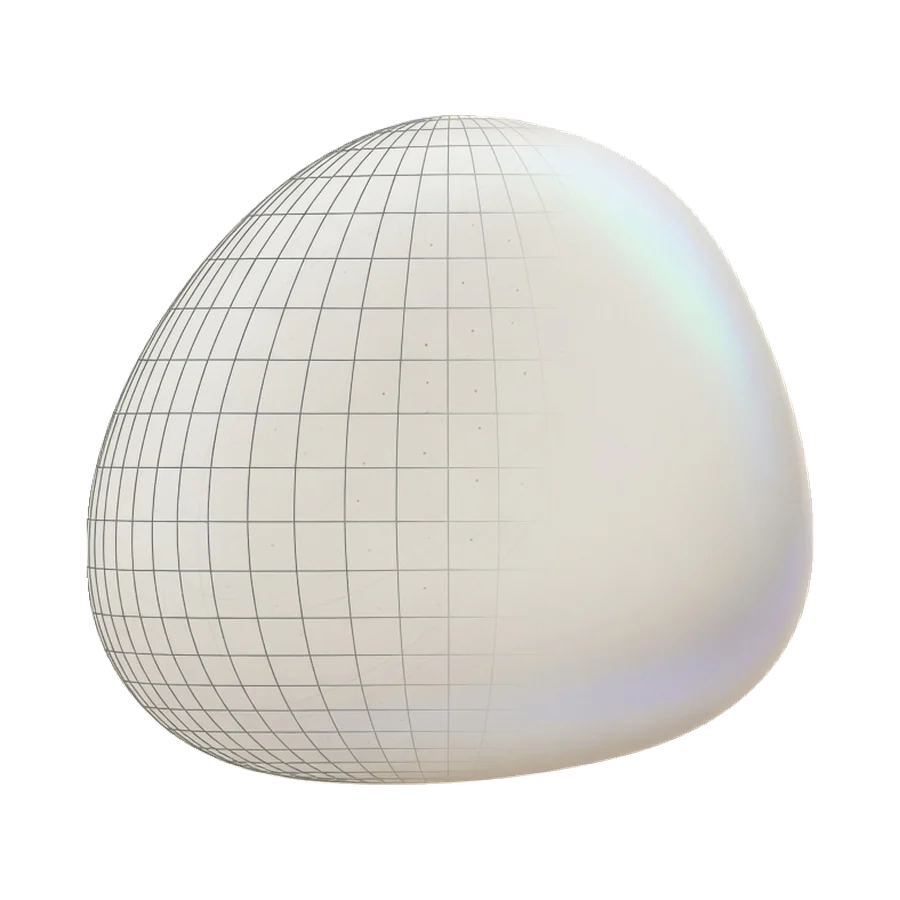
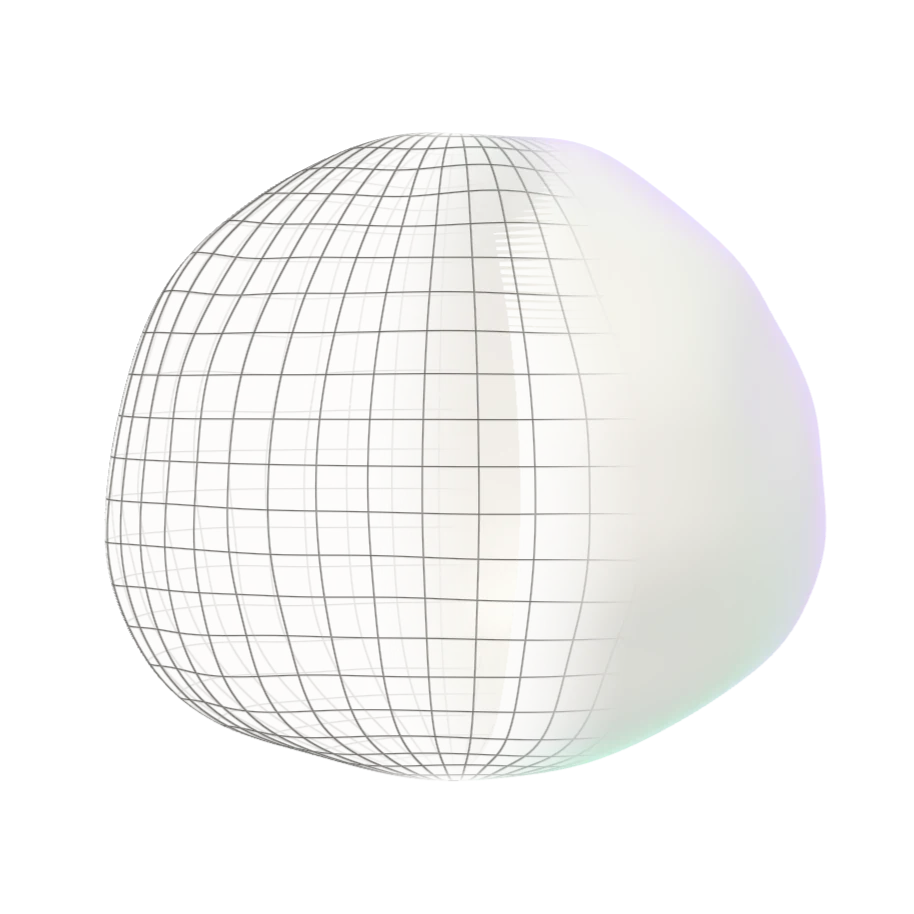
Fix reload ghosting and scroll jank
- Hero poster is now a capture of the live 3D object, so the
  poster-to-canvas swap on load is invisible (no more after-image)
- Carousel depth uses a fading overlay instead of per-frame
  blur()/brightness() filters; info text drops its blur transition
- Carousel screenshots are fetched and decoded during idle time
- three.js is fetched and parsed during the loader, not after it
- Loader progress line fades out before the curtain lifts
- Mobile: payoff line clears before the object drifts across it

diff --git a/src/components/motion/ProjectCarousel3D.tsx b/src/components/motion/ProjectCarousel3D.tsx
@@ -56,11 +56,9 @@ function CarouselCard({ project, index, position, isActive, reduce, onSelect, on
   const opacity = useTransform(d, (v) => 1 - clamp(Math.abs(v) - 1.3, 0, 1));
   const zIndex = useTransform(d, (v) => 100 - Math.round(Math.abs(v) * 10));
   const pointerEvents = useTransform(d, (v) => (Math.abs(v) > 2 ? "none" : "auto"));
-  const filter = useTransform(d, (v) => {
-    if (reduce) return "none";
-    const depth = Math.min(Math.abs(v), 2);
-    return `blur(${depth * 2.5}px) brightness(${1 - depth * 0.05})`;
-  });
+  // Depth "fog": an overlay fading in on cards further back. Opacity composites cheaply —
+  // an animated blur()/brightness() filter repainted every card on every scroll frame.
+  const fog = useTransform(d, (v) => (reduce ? 0 : Math.min(Math.abs(v), 2) * 0.22));
   // Inner parallax: the screenshot slides against the card's own motion.
   const shift = useTransform(d, (v) => `${clamp(v, -2, 2) * -5}%`);
   const shadowOpacity = useTransform(d, (v) => 0.5 - Math.min(Math.abs(v), 1.5) * 0.25);
@@ -76,8 +74,8 @@ function CarouselCard({ project, index, position, isActive, reduce, onSelect, on
     // Each card carries its own perspective and the stage stays flat, so cards stack strictly by
     // zIndex — overlapping neighbours never slice through each other mid-transition.
     <motion.div
-      className="absolute inset-0"
-      style={{ x, z, rotateY, opacity, zIndex, filter, pointerEvents, transformPerspective: 1600 }}
+      className="absolute inset-0 will-change-transform"
+      style={{ x, z, rotateY, opacity, zIndex, pointerEvents, transformPerspective: 1600 }}
     >
       {/* Floor shadow — reads the card as an object standing on a surface. */}
       <motion.div
@@ -111,6 +109,7 @@ function CarouselCard({ project, index, position, isActive, reduce, onSelect, on
               data-vt={isActive ? name : undefined}
             >
               <ProjectFrame project={project} shift={shift} />
+              <motion.div aria-hidden className="pointer-events-none absolute inset-0 bg-background" style={{ opacity: fog }} />
             </div>
           </div>
         </div>
@@ -260,6 +259,20 @@ export function ProjectCarousel3D({ projects }: ProjectCarousel3DProps) {
     // eslint-disable-next-line react-hooks/exhaustive-deps
   }, [inView]);
 
+  // Fetch and decode every card image during idle time, so nothing decodes mid-scroll.
+  useEffect(() => {
+    const idle = window.requestIdleCallback ?? ((cb: () => void) => window.setTimeout(cb, 1500));
+    const cancel = window.cancelIdleCallback ?? window.clearTimeout;
+    const id = idle(() => {
+      for (const p of projects) {
+        const img = new Image();
+        img.src = previewSrc(p);
+        img.decode().catch(() => undefined);
+      }
+    });
+    return () => cancel(id);
+  }, [projects]);
+
   // Warm the cache for the neighbours of the active project.
   useEffect(() => {
     for (const i of [active - 1, active + 1]) {
@@ -358,9 +371,9 @@ export function ProjectCarousel3D({ projects }: ProjectCarousel3DProps) {
               <AnimatePresence mode="wait" initial={false}>
                 <motion.div
                   key={current.slug}
-                  initial={{ opacity: 0, y: 14, filter: "blur(6px)" }}
-                  animate={{ opacity: 1, y: 0, filter: "blur(0px)" }}
-                  exit={{ opacity: 0, y: -10, filter: "blur(6px)" }}
+                  initial={{ opacity: 0, y: 14 }}
+                  animate={{ opacity: 1, y: 0 }}
+                  exit={{ opacity: 0, y: -10 }}
                   transition={{ duration: motionTokens.duration.small, ease: EASE_OUT }}
                 >
                   <span className="font-mono text-sm text-faint">

diff --git a/src/components/hero/HeroSequence.tsx b/src/components/hero/HeroSequence.tsx
@@ -19,7 +19,7 @@ import { motionTokens } from "@/lib/motion-tokens";
 import { cn } from "@/lib/utils";
 import { createHeroControls, OBJECT_FILL, SEPARATION_GAP, type HeroControls } from "./heroControls";
 import { HeroCanvasLayer, HeroPoster } from "./HeroObject";
-import { HERO_POSTER_SRC, useHeroPointer, useHeroSupport } from "./useHero";
+import { HERO_POSTER_SRC, loadHeroScene, useHeroPointer, useHeroSupport } from "./useHero";
 
 const DESIGN_ITEMS = ["Brand Identity", "UI / UX Design", "Design Systems", "Prototyping in Figma"];
 const BUILD_ITEMS = ["Marketing Websites", "Web Apps & Dashboards", "Full-stack Products", "React · Next.js · Supabase"];
@@ -255,6 +255,10 @@ export function HeroSequence() {
   // Mount the WebGL scene only once the loader has lifted and the main thread is idle —
   // the poster is already showing, so first load never waits on three.js.
   const [mountScene, setMountScene] = useState(false);
+  // Fetch + parse three.js while the loader is up (its motion runs on the compositor, so this is free).
+  useEffect(() => {
+    if (mode === "webgl") void loadHeroScene();
+  }, [mode]);
   useEffect(() => {
     if (!introDone || mode !== "webgl") return;
     const idle = window.requestIdleCallback ?? ((cb: () => void) => window.setTimeout(cb, 200));
@@ -303,7 +307,8 @@ export function HeroSequence() {
     const y = through(progress.get(), T.toCenter, T.toFused, layoutRef.current.y);
     // While the section scrolls away, counter ~70% of that motion: the object drifts up gently
     // and lingers mid-screen, so the carousel rises to meet it instead of leaving a gap.
-    return y - anchorSize.get() / 2 + exit.get() * window.innerHeight * 0.7;
+    // (Less on phones, where the payoff line sits just below the object.)
+    return y - anchorSize.get() / 2 + exit.get() * window.innerHeight * (window.innerWidth < 768 ? 0.35 : 0.7);
   });
 
   // Object controls follow the timeline (the render loop damps toward them).
@@ -333,7 +338,8 @@ export function HeroSequence() {
   const statementOpacity = useTransform(progress, statementRange, [0, 1, 1, 0]);
   const statementY = useTransform(progress, statementRange, [20, 0, 0, -24]);
   // Stage 3 payoff line.
-  const payoffOpacity = useTransform(() => lerpAt(progress.get(), T.payoffIn, [0, 1]) * (1 - lerpAt(exit.get(), [0, 0.35], [0, 1])));
+  // Gone early in the unpin, before the object can drift across it.
+  const payoffOpacity = useTransform(() => lerpAt(progress.get(), T.payoffIn, [0, 1]) * (1 - lerpAt(exit.get(), [0, 0.15], [0, 1])));
   const payoffY = useTransform(progress, T.payoffIn, [16, 0]);
   // Shared contact shadow: widens as the halves part (desktop), steps aside for vertical halves (mobile), fades on exit.
   const shadowSpread = useTransform(() => 1 + lerpAt(progress.get(), [T.open[0], T.open[1], T.close[0], T.close[1]], [0, 1, 1, 0]) * 0.6);
@@ -432,7 +438,7 @@ export function HeroSequence() {
         {/* Stage 3 — payoff */}
         <motion.p
           className="pointer-events-none absolute inset-x-6 text-center font-heading text-[clamp(1.25rem,2vw,1.75rem)] font-medium tracking-[-0.02em]"
-          style={{ top: viewport.mobile ? viewport.h * 0.66 : layout.y[2] + layout.size[2] * 0.46 + 12, opacity: payoffOpacity, y: payoffY }}
+          style={{ top: layout.y[2] + layout.size[2] * 0.46 + 12, opacity: payoffOpacity, y: payoffY }}
         >
           Here’s what that looks like.
         </motion.p>

diff --git a/src/components/LoadingScreen.tsx b/src/components/LoadingScreen.tsx
@@ -184,7 +184,8 @@ export function LoadingScreen() {
       {/* Hairline progress — the same sweep as the counter, as a compositor animation. */}
       <div className="absolute inset-x-0 bottom-0 h-px bg-foreground/10">
         <div
-          className={cn("h-full origin-left bg-accent", !reduce && "animate-loader-bar")}
+          // Fades out as the curtain lifts, so it never streaks up the screen.
+          className={cn("h-full origin-left bg-accent", !reduce && "animate-loader-bar", exiting && "opacity-0 transition-opacity duration-small")}
           style={{
             animationDuration: `${COUNT_MS}ms`,
             animationDelay: `${COUNT_DELAY_MS}ms`,

diff --git a/src/components/hero/useHero.ts b/src/components/hero/useHero.ts
@@ -3,6 +3,14 @@ import { createHeroPointer, type HeroPointer } from "./heroControls";
 
 export const HERO_POSTER_SRC = "/hero-poster.webp";
 
+/** The three.js scene chunk. Calling this early (during the loader) downloads and parses it
+ *  while the main thread is otherwise idle; React.lazy reuses the same promise later. */
+let sceneModule: Promise<typeof import("./HeroScene")> | null = null;
+export function loadHeroScene() {
+  sceneModule ??= import("./HeroScene");
+  return sceneModule;
+}
+
 /** True only for hardware-accelerated WebGL — software rasterisers (no GPU) get the poster. */
 function supportsWebGL() {
   try {

diff --git a/src/components/hero/HeroObject.tsx b/src/components/hero/HeroObject.tsx
@@ -1,11 +1,11 @@
 import { lazy, Suspense, useEffect, useRef, useState, type RefObject } from "react";
-import { HERO_POSTER_SRC } from "./useHero";
+import { HERO_POSTER_SRC, loadHeroScene } from "./useHero";
 import { motion, type MotionValue } from "motion/react";
 import { cn } from "@/lib/utils";
 import type { HeroControls, HeroPointer } from "./heroControls";
 
 // three.js + R3F live in their own chunk; nothing 3D blocks first paint.
-const HeroScene = lazy(() => import("./HeroScene"));
+const HeroScene = lazy(loadHeroScene);
 
 interface HeroCanvasLayerProps {
   controls: RefObject<HeroControls>;
